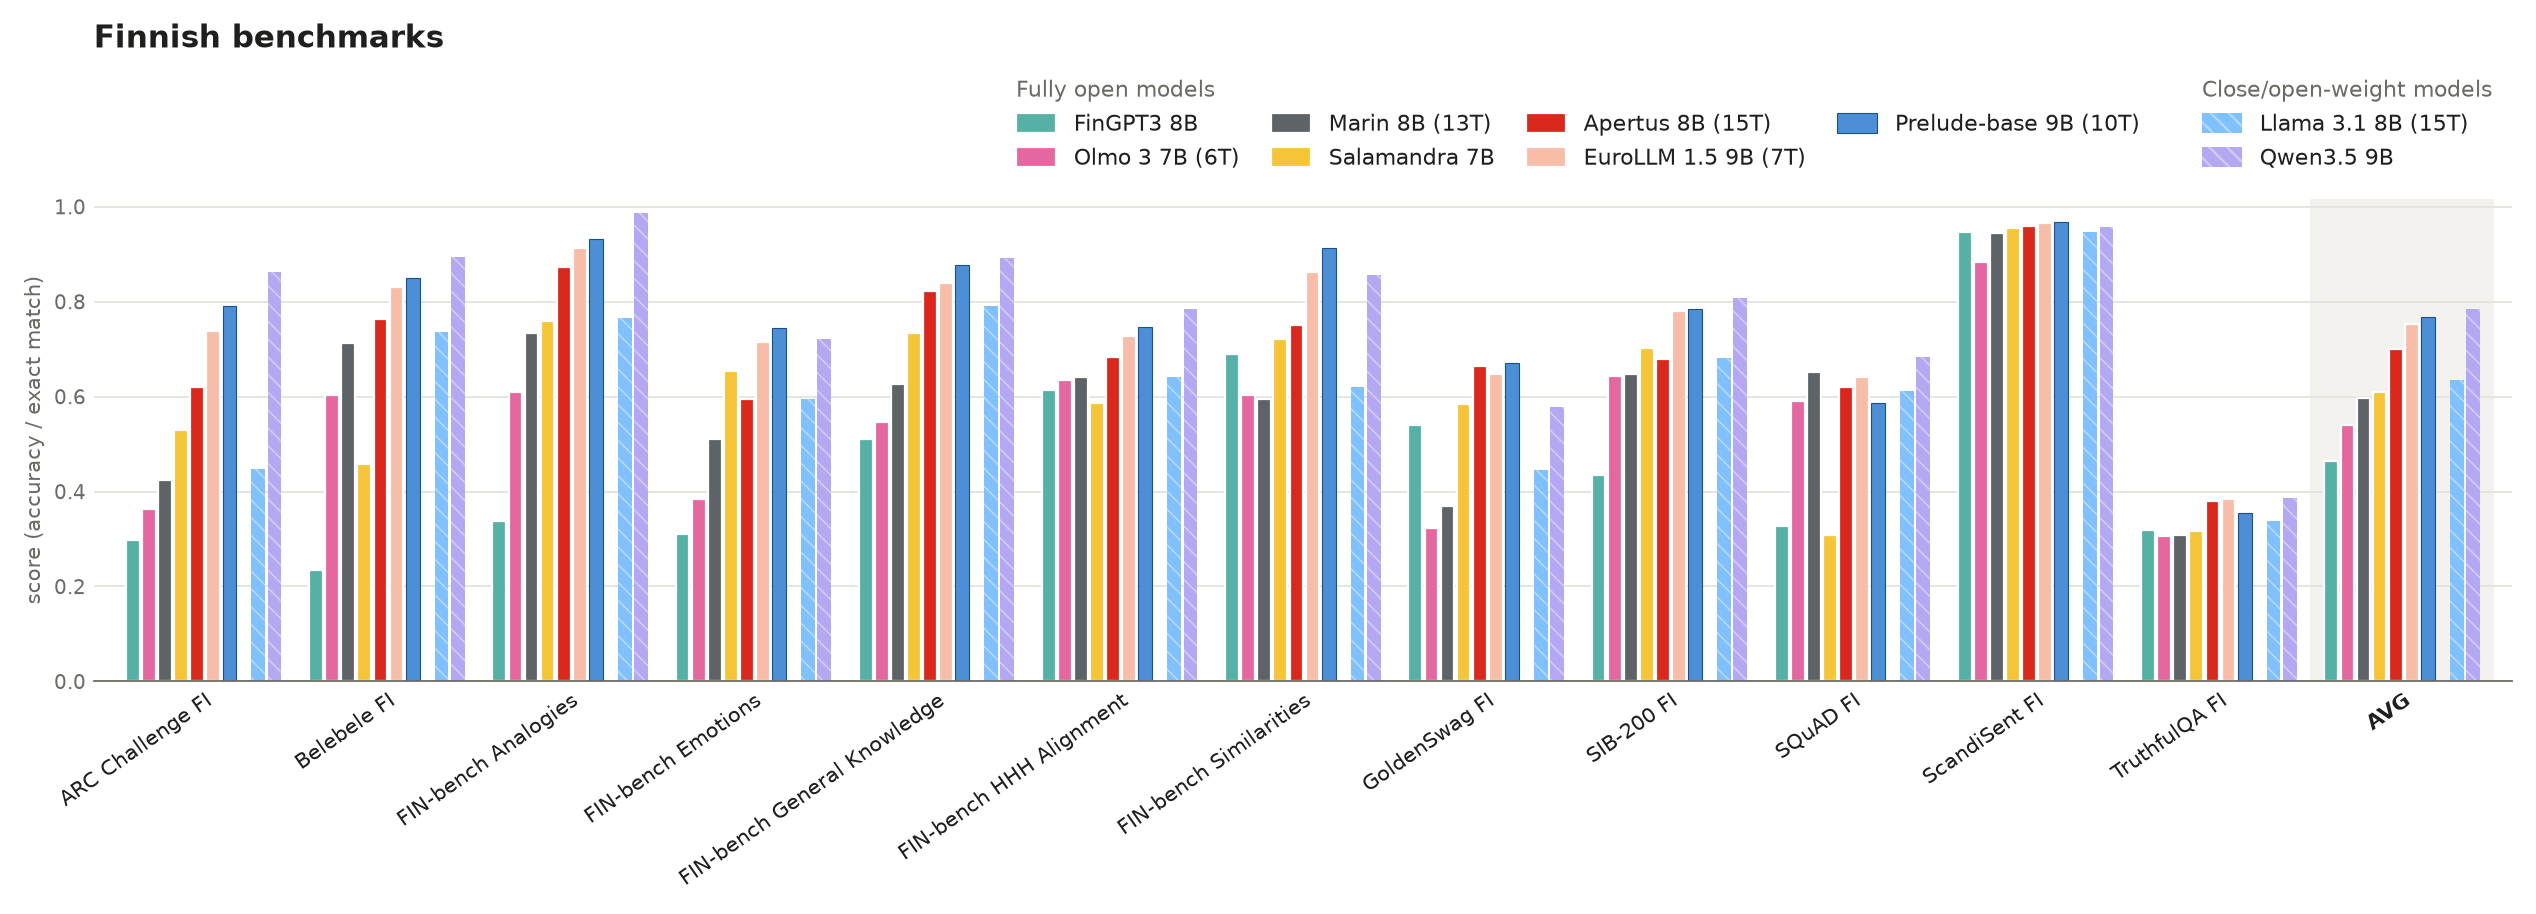
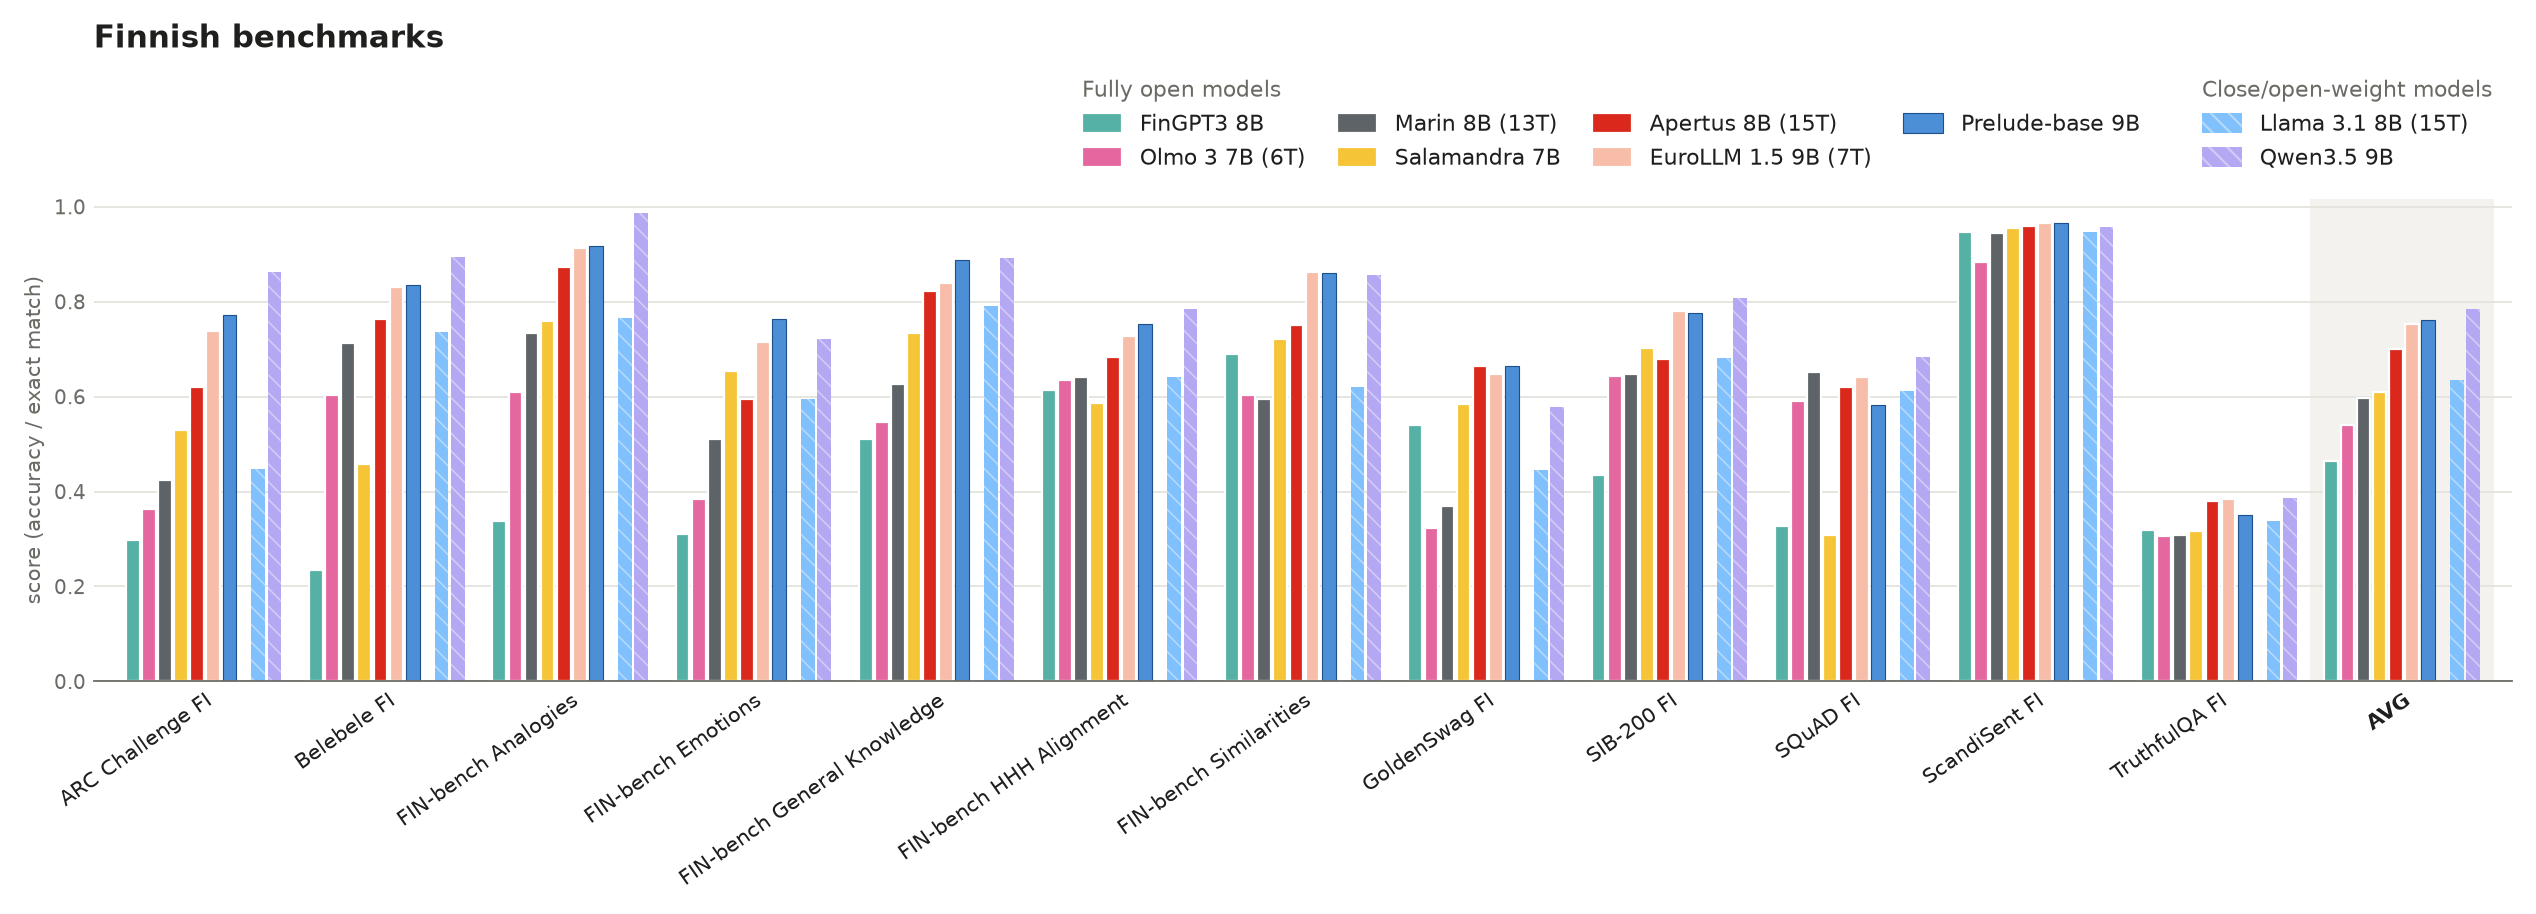
Use openeurollm/prelude-long results for Finnish, regenerate

Changed region(s): [[0.405, 0.0919, 0.8411, 0.1838], [0.4984, 0.2757, 0.5296, 0.3063]]

diff --git a/prelude-evaluations-model-card/plot_results.py b/prelude-evaluations-model-card/plot_results.py
@@ -211,16 +211,18 @@ DISPLAY = {"Prelude 9B": "Prelude-base 9B",
 # Summarisation / rewriting / truthfulqa-gen (ROUGE-L, BLEU) are dropped.
 NOREVAL_METRICS = ["acc", "f1", "em_first", "errant_f05"]
 
-# Finnish: FIN-bench v2 lm-eval results (finnish_lm_eval_results/<model>/*.json),
-# 5-shot, each benchmark averaged over its 5 prompt variants (group_* rows).
-# Keyed by the lm-eval `pretrained` (and revision for Prelude). Left out:
-# Llama-Poro-2-8B-Instruct (instruction tuned), OLMo 2 7B (superseded by
-# Olmo 3) and the smaller TurkuNLP gpt3-finnish models.
+# Finnish: FIN-bench v2 lm-eval results
+# (finnish_lm_eval_results/<model>/*.json), 5-shot, each benchmark
+# averaged over its 5 prompt variants (group_* rows).  Keyed by the
+# lm-eval `pretrained` (and revision for Prelude). Left out:
+# Llama-Poro-2-8B-Instruct (instruction tuned), OLMo 2 7B (superseded
+# by Olmo 3), EuroLLM 9B (superseded by EuroLLM 1.5 9B Base),
+# openeurollm/prelude@anneal2t_multilingual1_dominant1_iter_1192093
+# (superseded by predule-long), and the smaller TurkuNLP gpt3-finnish
+# models.
 FINNISH_DIR = "finnish_lm_eval_results"
 FINNISH_MODELS = {
-    "openeurollm/prelude@anneal2t_multilingual1_dominant1_iter_1192093":
-        "Prelude 9B + 2T anneal",
-    #"utter-project/EuroLLM-9B": "EuroLLM 9B",
+    "openeurollm/prelude-long": "Prelude 9B",    # long context
     "utter-project/EuroLLM1.5-9B-Base": "EuroLLM 1.5 9B",
     "swiss-ai/Apertus-8B-2509": "Apertus 8B",
     "allenai/Olmo-3-1025-7B": "Olmo 3 7B",

diff --git a/prelude-evaluations-model-card/README.md b/prelude-evaluations-model-card/README.md
@@ -31,7 +31,7 @@ model repo in one commit, which needs an HF token with write access
 
 # Results
 
-Automatically generated by `plot_results.py` on 2026-11-17; do not edit below this line.
+Automatically generated by `plot_results.py` on 2026-11-18; do not edit below this line.
 
 ## English (decontaminated only)
 
@@ -91,12 +91,14 @@ Automatically generated by `plot_results.py` on 2026-11-17; do not edit below th
 |---|---:|---:|---:|---:|---:|---:|---:|---:|---:|---:|---:|---:|---:|---:|---:|---:|---:|---:|---:|---:|---:|---:|---:|---:|---:|---:|---:|---:|---:|---:|
 | ***Fully open models*** | | | | | | | | | | | | | | | | | | | | | | | | | | | | | | |
 | Olmo 3 7B (6T) | 0.21 | 0.64 | 0.71 | 0.41 | 0.37 | 0.72 | 0.62 | 0.48 | 0.58 | 0.39 | 0.25 | 0.05 | 0.06 | 0.61 | 0.47 | 0.39 | 0.33 | 0.48 | 0.46 | 0.53 | 0.36 | 41.5 | 46.8 | 29.0 | 10.3 | 49.2 | 0.5 | 38.5 | 1.2 | 0.43 |
+| Marin 8B (13T) | 0.03 | 0.66 | 0.72 | 0.44 | 0.41 | 0.75 | 0.89 | 0.74 | 0.54 | 0.40 | 0.35 | 0.07 | 0.09 | 0.60 | 0.46 | 0.38 | 0.33 | 0.52 | 0.53 | 0.51 | 0.35 | 41.6 | 16.3 | 31.2 | 12.2 | 52.3 | 0.5 | 30.4 | 1.2 | 0.46 |
 | EuroLLM 9B 2512 (4T) | **0.47** | 0.67 | 0.79 | 0.53 | 0.50 | 0.85 | 0.78 | 0.68 | 0.62 | 0.71 | 0.46 | 0.32 | 0.24 | 0.78 | 0.72 | 0.55 | 0.54 | 0.46 | 0.53 | 0.49 | 0.57 | 52.5 | 67.6 | **56.1** | 25.9 | **60.9** | 0.3 | 57.5 | 4.3 | 0.58 |
-| Apertus 8B (15T) | 0.45 | **0.75** | 0.73 | 0.54 | 0.52 | 0.85 | 0.65 | 0.61 | 0.67 | 0.67 | 0.46 | **0.37** | 0.42 | 0.81 | 0.79 | 0.59 | 0.50 | **0.65** | 0.50 | 0.49 | 0.49 | 66.5 | 72.5 | 54.3 | 43.3 | 59.6 | **2.0** | 57.7 | 13.3 | 0.60 |
-| Prelude-base 9B (10T) | **0.47** | 0.68 | **0.81** | 0.55 | **0.56** | **0.86** | 0.71 | **0.81** | 0.75 | 0.69 | 0.58 | 0.35 | **0.56** | 0.86 | 0.81 | 0.71 | 0.67 | 0.53 | 0.57 | 0.67 | 0.56 | **67.8** | **76.2** | 55.6 | **46.2** | 58.2 | 0.4 | **59.4** | 3.0 | 0.65 |
+| Apertus 8B (15T) | 0.45 | **0.75** | 0.73 | 0.54 | 0.52 | 0.85 | 0.65 | 0.61 | 0.67 | 0.67 | 0.46 | **0.37** | 0.42 | 0.81 | 0.79 | 0.59 | 0.50 | 0.65 | 0.50 | 0.49 | 0.49 | 66.5 | 72.5 | 54.3 | 43.3 | 59.6 | **2.0** | 57.7 | 13.3 | 0.60 |
+| EuroLLM 1.5 9B (7T) | **0.47** | 0.69 | 0.80 | **0.57** | 0.54 | **0.86** | 0.77 | 0.72 | 0.75 | 0.72 | 0.56 | 0.33 | 0.21 | 0.84 | 0.81 | 0.64 | 0.60 | **0.68** | **0.60** | 0.60 | 0.48 | 61.3 | **77.4** | 55.6 | 31.9 | 60.3 | 0.5 | 56.8 | 3.5 | 0.63 |
+| Prelude-base 9B (10T) | **0.47** | 0.68 | **0.81** | 0.55 | **0.56** | **0.86** | 0.71 | **0.81** | 0.75 | 0.69 | 0.58 | 0.35 | **0.56** | 0.86 | 0.81 | 0.71 | 0.67 | 0.53 | 0.57 | 0.67 | 0.56 | **67.8** | 76.2 | 55.6 | **46.2** | 58.2 | 0.4 | **59.4** | 3.0 | 0.65 |
 | ***Close/open-weight models*** | | | | | | | | | | | | | | | | | | | | | | | | | | | | | | |
 | Llama 3.1 8B (15T) | 0.16 | 0.67 | 0.76 | 0.47 | 0.47 | 0.81 | 0.76 | 0.63 | 0.60 | 0.49 | 0.36 | 0.15 | 0.19 | 0.67 | 0.62 | 0.43 | 0.40 | 0.61 | 0.57 | 0.54 | 0.57 | 56.2 | 61.7 | 44.8 | 31.4 | 57.9 | 0.3 | 54.6 | 2.1 | 0.52 |
-| Qwen3.5 9B | 0.36 | 0.69 | 0.78 | **0.56** | 0.53 | 0.80 | **0.90** | 0.61 | **0.86** | **0.75** | **0.60** | 0.24 | 0.24 | **0.89** | **0.87** | **0.81** | **0.76** | 0.51 | **0.59** | **0.81** | **0.64** | 63.6 | 71.3 | 50.7 | 35.5 | 60.2 | 0.7 | 56.5 | **14.6** | **0.66** |
+| Qwen3.5 9B | 0.36 | 0.69 | 0.78 | 0.56 | 0.53 | 0.80 | **0.90** | 0.61 | **0.86** | **0.75** | **0.60** | 0.24 | 0.24 | **0.89** | **0.87** | **0.81** | **0.76** | 0.51 | 0.59 | **0.81** | **0.64** | 63.6 | 71.3 | 50.7 | 35.5 | 60.2 | 0.7 | 56.5 | **14.6** | **0.66** |
 
 ## Finnish
 
@@ -109,9 +111,9 @@ Automatically generated by `plot_results.py` on 2026-11-17; do not edit below th
 | Olmo 3 7B (6T) | 0.36 | 0.60 | 0.61 | 0.39 | 0.55 | 0.64 | 0.60 | 0.32 | 0.64 | 0.59 | 0.88 | 0.31 | 0.54 |
 | Marin 8B (13T) | 0.42 | 0.71 | 0.73 | 0.51 | 0.63 | 0.64 | 0.59 | 0.37 | 0.65 | 0.65 | 0.94 | 0.31 | 0.60 |
 | Salamandra 7B | 0.53 | 0.46 | 0.76 | 0.65 | 0.73 | 0.59 | 0.72 | 0.58 | 0.70 | 0.31 | 0.96 | 0.32 | 0.61 |
-| Apertus 8B (15T) | 0.62 | 0.76 | 0.87 | 0.60 | 0.82 | 0.68 | 0.75 | **0.67** | 0.68 | 0.62 | 0.96 | 0.38 | 0.70 |
-| EuroLLM 1.5 9B (7T) | 0.74 | 0.83 | 0.91 | 0.71 | 0.84 | 0.73 | 0.86 | 0.65 | 0.78 | 0.64 | **0.97** | 0.38 | 0.75 |
-| Prelude-base 9B (10T) | 0.79 | 0.85 | 0.93 | **0.75** | 0.88 | 0.75 | **0.91** | **0.67** | 0.78 | 0.59 | **0.97** | 0.36 | 0.77 |
+| Apertus 8B (15T) | 0.62 | 0.76 | 0.87 | 0.60 | 0.82 | 0.68 | 0.75 | 0.67 | 0.68 | 0.62 | 0.96 | 0.38 | 0.70 |
+| EuroLLM 1.5 9B (7T) | 0.74 | 0.83 | 0.91 | 0.71 | 0.84 | 0.73 | **0.86** | 0.65 | 0.78 | 0.64 | **0.97** | 0.38 | 0.75 |
+| Prelude-base 9B | 0.77 | 0.83 | 0.92 | **0.76** | **0.89** | 0.75 | **0.86** | **0.66** | 0.78 | 0.58 | **0.97** | 0.35 | 0.76 |
 | ***Close/open-weight models*** | | | | | | | | | | | | | |
 | Llama 3.1 8B (15T) | 0.45 | 0.74 | 0.76 | 0.59 | 0.79 | 0.64 | 0.62 | 0.44 | 0.68 | 0.61 | 0.95 | 0.34 | 0.63 |
-| Qwen3.5 9B | **0.86** | **0.89** | **0.99** | 0.72 | **0.89** | **0.78** | 0.86 | 0.58 | **0.81** | **0.68** | 0.96 | **0.39** | **0.78** |
+| Qwen3.5 9B | **0.86** | **0.89** | **0.99** | 0.72 | **0.89** | **0.78** | **0.86** | 0.58 | **0.81** | **0.68** | 0.96 | **0.39** | **0.78** |
